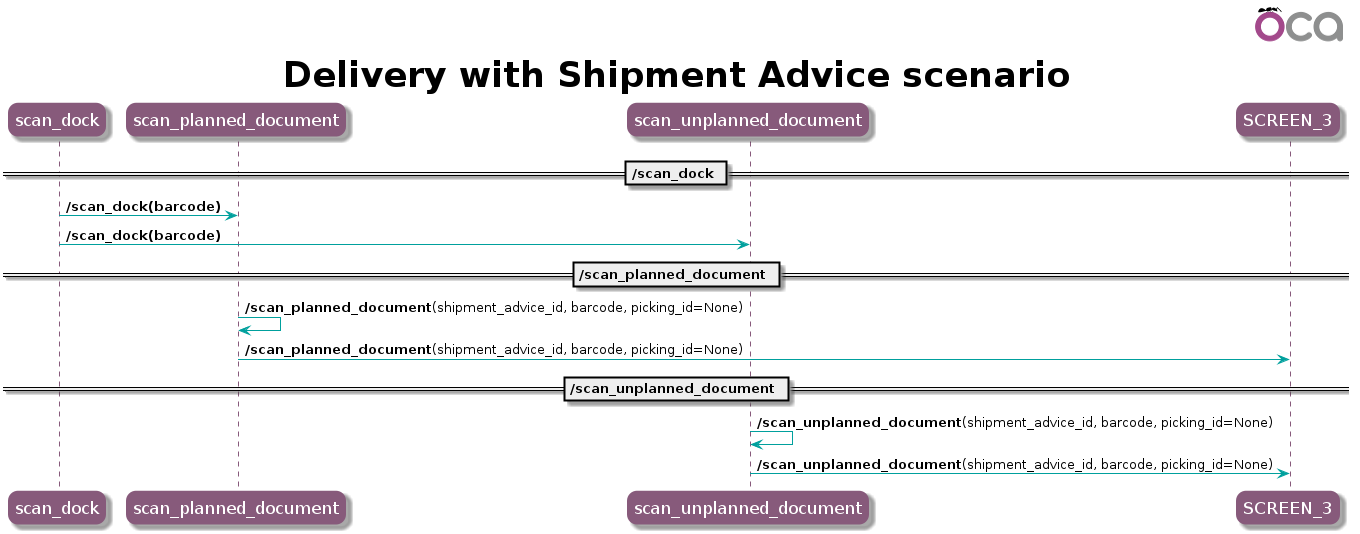
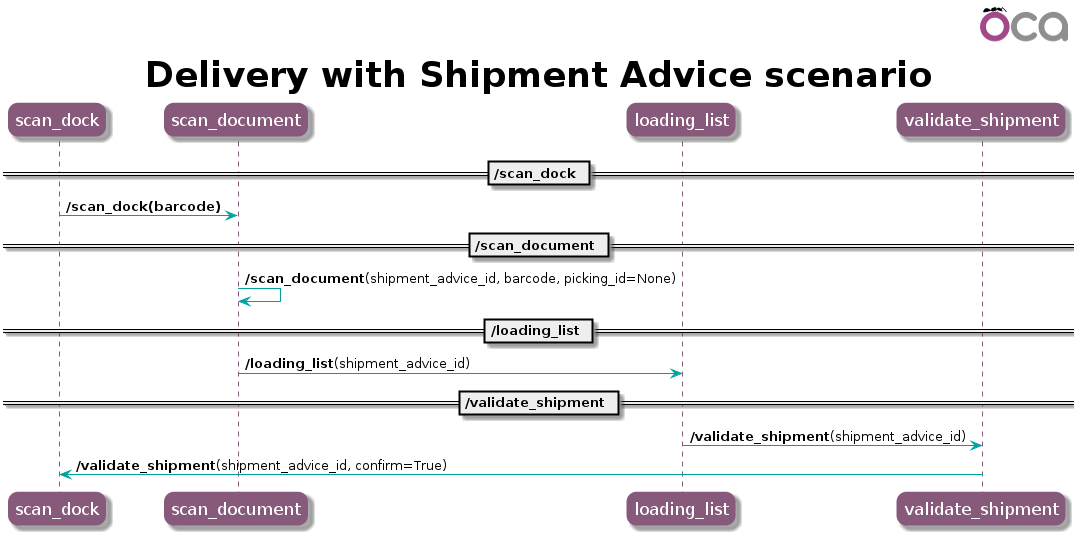
fixup! fixup! [ADD] shopfloor_delivery_shipment

diff --git a/shopfloor_delivery_shipment/services/delivery_shipment.py b/shopfloor_delivery_shipment/services/delivery_shipment.py
@@ -1,7 +1,8 @@
 # Copyright 2021 Camptocamp SA
 # License AGPL-3.0 or later (http://www.gnu.org/licenses/agpl)
+from odoo import fields
 
-from odoo.addons.base_rest.components.service import to_int
+from odoo.addons.base_rest.components.service import to_bool, to_int
 from odoo.addons.component.core import Component
 
 
@@ -38,17 +39,16 @@ class DeliveryShipment(Component):
     _usage = "delivery_shipment"
     _description = __doc__
 
-    def _response_for_scan_planned_document(
-        self, shipment_advice, picking=None, message=None
-    ):
+    def _response_for_scan_dock(self, message=None):
+        return self._response(next_state="scan_dock", message=message)
+
+    def _response_for_scan_document(self, shipment_advice, picking=None, message=None):
         data = {
-            "shipment_advice": None,  # TODO
+            "shipment_advice": self.data.shipment_advice(shipment_advice),
         }
         if picking:
             data.update(picking=self._data_for_stock_picking(picking))
-        return self._response(
-            next_state="scan_planned_document", data=data, message=message,
-        )
+        return self._response(next_state="scan_document", data=data, message=message,)
 
     def _data_for_stock_picking(self, picking):
         data = self.data.picking(picking)
@@ -66,6 +66,24 @@ class DeliveryShipment(Component):
     def _data_for_move_lines(self, lines, **kw):
         return self.data.move_lines(lines, **kw)
 
+    def _find_shipment_advice_from_dock(self, dock):
+        return self.env["shipment.advice"].search(
+            [("dock_id", "=", dock.id), ("state", "in", ["in_progress"])],
+            limit=1,
+            order="arrival_date",
+        )
+
+    def _create_shipment_advice_from_dock(self, dock):
+        shipment_advice = self.env["shipment.advice"].create(
+            {
+                "dock_id": dock.id,
+                "arrival_date": fields.Datetime.to_string(fields.Datetime.now()),
+            }
+        )
+        shipment_advice.action_confirm()
+        shipment_advice.action_in_progress()
+        return shipment_advice
+
     def scan_dock(self, barcode):
         """Scan a loading dock.
 
@@ -77,14 +95,24 @@ class DeliveryShipment(Component):
         "Allow to create shipment advice" enabled.
 
         Transitions:
-        * scan_planned_document: a shipment advice with planned moves has been found
-        * scan_unplanned_document: a shipment advice without planned moves has been
-          found or created
+        * scan_document: a shipment advice has been found or created (with or
+          without planned moves)
         * scan_dock: no shipment advice found
         """
-        # TODO
+        search = self._actions_for("search")
+        dock = search.dock_from_scan(barcode)
+        if dock:
+            shipment_advice = self._find_shipment_advice_from_dock(dock)
+            if not shipment_advice:
+                if not self.work.menu.allow_shipment_advice_create:
+                    return self._response_for_scan_dock(
+                        message=self.msg_store.no_shipment_in_progress(dock)
+                    )
+                shipment_advice = self._create_shipment_advice_from_dock(dock)
+            return self._response_for_scan_document(shipment_advice)
+        return self._response_for_scan_dock(message=self.msg_store.barcode_not_found())
 
-    def scan_planned_document(self, shipment_advice_id, barcode, picking_id=None):
+    def scan_document(self, shipment_advice_id, barcode, picking_id=None):
         """Scan an operation, a package, a product or a lot.
 
         If an operation is scanned, reload the screen with the related
@@ -95,11 +123,86 @@ class DeliveryShipment(Component):
         operation listing its planned content.
 
         Transitions:
-        * scan_planned_document: once a good is loaded, or a operation has been
+        * scan_document: once a good is loaded, or a operation has been
           scanned, or in case of error
         * scan_dock: error (shipment not found...)
         """
+        shipment_advice = (
+            self.env["shipment.advice"].browse(shipment_advice_id).exists()
+        )
+        if not shipment_advice:
+            return self._response_for_scan_dock(
+                message=self.msg_store.record_not_found()
+            )
+        picking = None
+        if picking_id:
+            picking = self.env["stock.picking"].browse(picking_id).exists()
+            if not picking:
+                return self._response_for_scan_document(
+                    shipment_advice, message=self.msg_store.stock_picking_not_found()
+                )
         # TODO
+        # if scanned_picking:
+        #   return self._scan_picking(shipment_advice, scanned_picking)
+        # if scanned_package:
+        #   return self._scan_package(shipment_advice, scanned_package)
+        # if scanned_lot:
+        #   return self._scan_product(shipment_advice, scanned_lot)
+        # if scanned_product:
+        #   return self._scan_product(shipment_advice, scanned_product)
+        return self._response_for_scan_document(
+            shipment_advice, picking, message=self.msg_store.barcode_not_found()
+        )
+
+    def _scan_package(self, shipment_advice, package):
+        """Load the package in the shipment advice.
+
+        Find the package level (of the planned shipment advice in
+        priority if any) corresponding to the scanned package and load it.
+        If no package level is found an error will be returned.
+        """
+        # TODO
+        package_level = package
+        message = None
+        return self._response_for_scan_document(
+            shipment_advice, package_level.picking_id, message=message
+        )
+
+    def _scan_lot(self, shipment_advice, lot):
+        """Load the lot in the shipment advice.
+
+        Find the first move line (of the planned shipment advice in
+        priority if any) corresponding to the scanned lot and load it.
+        If no move line is found an error will be returned.
+        """
+        # TODO
+        move_line = lot
+        message = None
+        return self._response_for_scan_document(
+            shipment_advice, move_line.picking_id, message=message
+        )
+
+    def _scan_product(self, shipment_advice, product):
+        """Load the product in the shipment advice.
+
+        Find the first move line (of the planned shipment advice in
+        priority if any) corresponding to the scanned product and load it.
+        If no move line is found an error will be returned.
+        """
+        # TODO
+        move_line = product
+        message = None
+        return self._response_for_scan_document(
+            shipment_advice, move_line.picking_id, message=message
+        )
+
+    def loading_list(self, shipment_advice_id):
+        # TODO
+        pass
+
+    def validate_shipment(self, shipment_advice_id, confirm=False):
+        # TODO
+        pass
 
 
 class ShopfloorDeliveryShipmentValidator(Component):
@@ -114,7 +217,7 @@ class ShopfloorDeliveryShipmentValidator(Component):
             "barcode": {"required": True, "type": "string"},
         }
 
-    def scan_planned_document(self):
+    def scan_document(self):
         return {
             "shipment_advice_id": {
                 "coerce": to_int,
@@ -130,19 +233,27 @@ class ShopfloorDeliveryShipmentValidator(Component):
             },
         }
 
-    def scan_unplanned_document(self):
+    def loading_list(self):
         return {
             "shipment_advice_id": {
                 "coerce": to_int,
                 "required": True,
                 "type": "integer",
             },
-            "barcode": {"required": True, "type": "string"},
-            "picking_id": {
+        }
+
+    def validate_shipment(self):
+        return {
+            "shipment_advice_id": {
                 "coerce": to_int,
+                "required": True,
+                "type": "integer",
+            },
+            "confirm": {
+                "coerce": to_bool,
                 "required": False,
                 "nullable": True,
-                "type": "integer",
+                "type": "boolean",
             },
         }
 
@@ -163,10 +274,10 @@ class ShopfloorDeliveryShipmentValidatorResponse(Component):
         to the next state.
         """
         return {
-            # TODO
             "scan_dock": self._schema_scan_dock,
-            "scan_planned_document": self._schema_scan_planned_document,
-            "scan_unplanned_document": self._schema_scan_unplanned_document,
+            "scan_document": self._schema_scan_document,
+            "loading_list": self._schema_loading_list,
+            "validate_shipment": self._schema_validate_shipment,
         }
 
     @property
@@ -174,7 +285,7 @@ class ShopfloorDeliveryShipmentValidatorResponse(Component):
         return {}
 
     @property
-    def _schema_scan_planned_document(self):
+    def _schema_scan_document(self):
         shipment_schema = self.schemas.shipment_advice()
         picking_schema = self.schemas.picking_detail()
         return {
@@ -187,18 +298,37 @@ class ShopfloorDeliveryShipmentValidatorResponse(Component):
         }
 
     @property
-    def _schema_scan_unplanned_document(self):
+    def _schema_loading_list(self):
+        shipment_schema = self.schemas.shipment_advice()
         # TODO
-        return {}
+        return {
+            "shipment_advice": {
+                "type": "dict",
+                "nullable": False,
+                "schema": shipment_schema,
+            },
+        }
+
+    @property
+    def _schema_validate_shipment(self):
+        shipment_schema = self.schemas.shipment_advice()
+        # TODO
+        return {
+            "shipment_advice": {
+                "type": "dict",
+                "nullable": False,
+                "schema": shipment_schema,
+            },
+        }
 
     def scan_dock(self):
-        return self._response_schema(
-            next_states={
-                "scan_planned_document",
-                "scan_unplanned_document",
-                "scan_dock",
-            }
-        )
+        return self._response_schema(next_states={"scan_document", "scan_dock"})
 
-    def scan_planned_document(self):
-        return self._response_schema(next_states={"scan_planned_document", "scan_dock"})
+    def scan_document(self):
+        return self._response_schema(next_states={"scan_document", "scan_dock"})
+
+    def loading_list(self):
+        return self._response_schema(next_states={"loading_list", "scan_dock"})
+
+    def validate_shipment(self):
+        return self._response_schema(next_states={"validate_shipment", "scan_dock"})

diff --git a/shopfloor_delivery_shipment/actions/search.py b/shopfloor_delivery_shipment/actions/search.py
@@ -1,0 +1,15 @@
+# Copyright 2021 Camptocamp SA
+# License AGPL-3.0 or later (http://www.gnu.org/licenses/agpl)
+from odoo.addons.component.core import Component
+
+
+class SearchAction(Component):
+    _inherit = "shopfloor.search.action"
+
+    def dock_from_scan(self, barcode):
+        model = self.env["stock.dock"]
+        if not barcode:
+            return model.browse()
+        return model.search(
+            ["|", ("barcode", "=", barcode), ("name", "=", barcode)], limit=1
+        )

diff --git a/shopfloor_delivery_shipment/actions/message.py b/shopfloor_delivery_shipment/actions/message.py
@@ -1,0 +1,15 @@
+# Copyright 2021 Camptocamp SA
+# License AGPL-3.0 or later (http://www.gnu.org/licenses/agpl)
+from odoo import _
+
+from odoo.addons.component.core import Component
+
+
+class MessageAction(Component):
+    _inherit = "shopfloor.message.action"
+
+    def no_shipment_in_progress(self, dock):
+        return {
+            "message_type": "error",
+            "body": _("No shipment in progress found for dock {}.").format(dock.name),
+        }

diff --git a/shopfloor_delivery_shipment/actions/__init__.py b/shopfloor_delivery_shipment/actions/__init__.py
@@ -1,2 +1,4 @@
-from . import schema
 from . import data
+from . import message
+from . import schema
+from . import search
